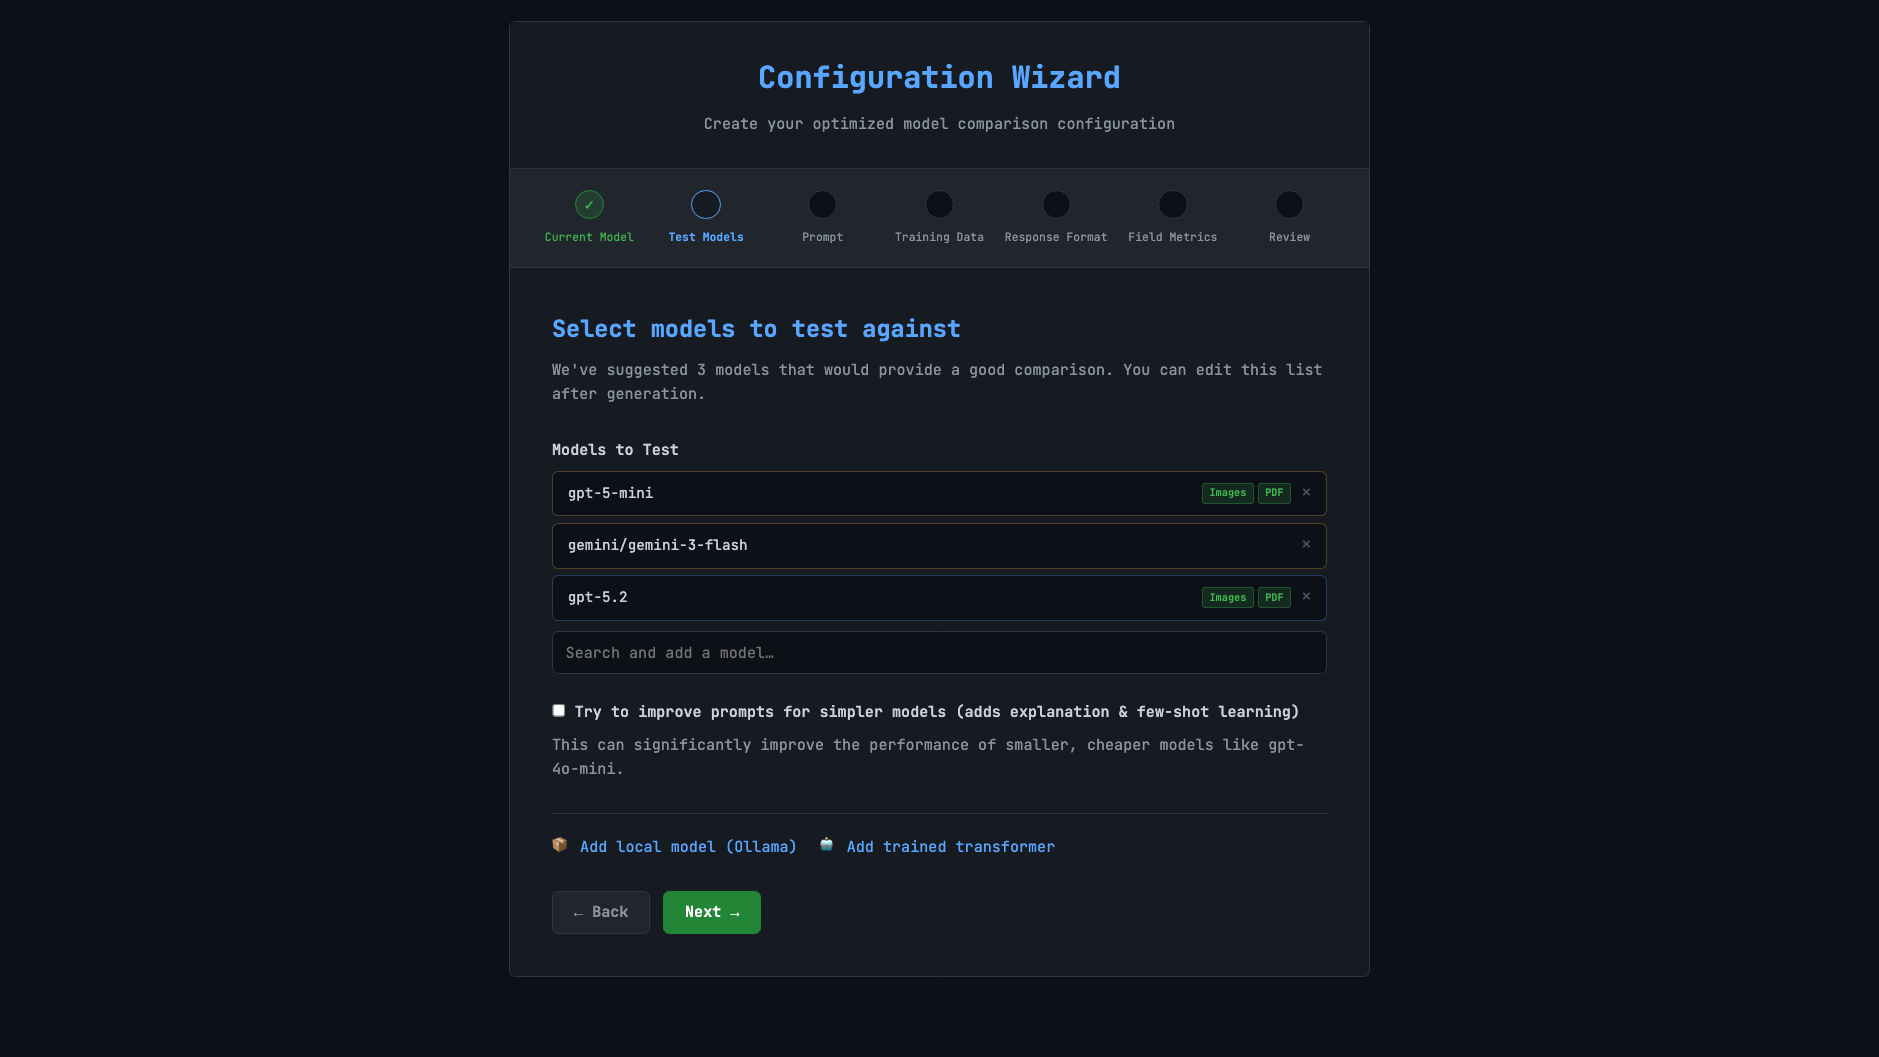
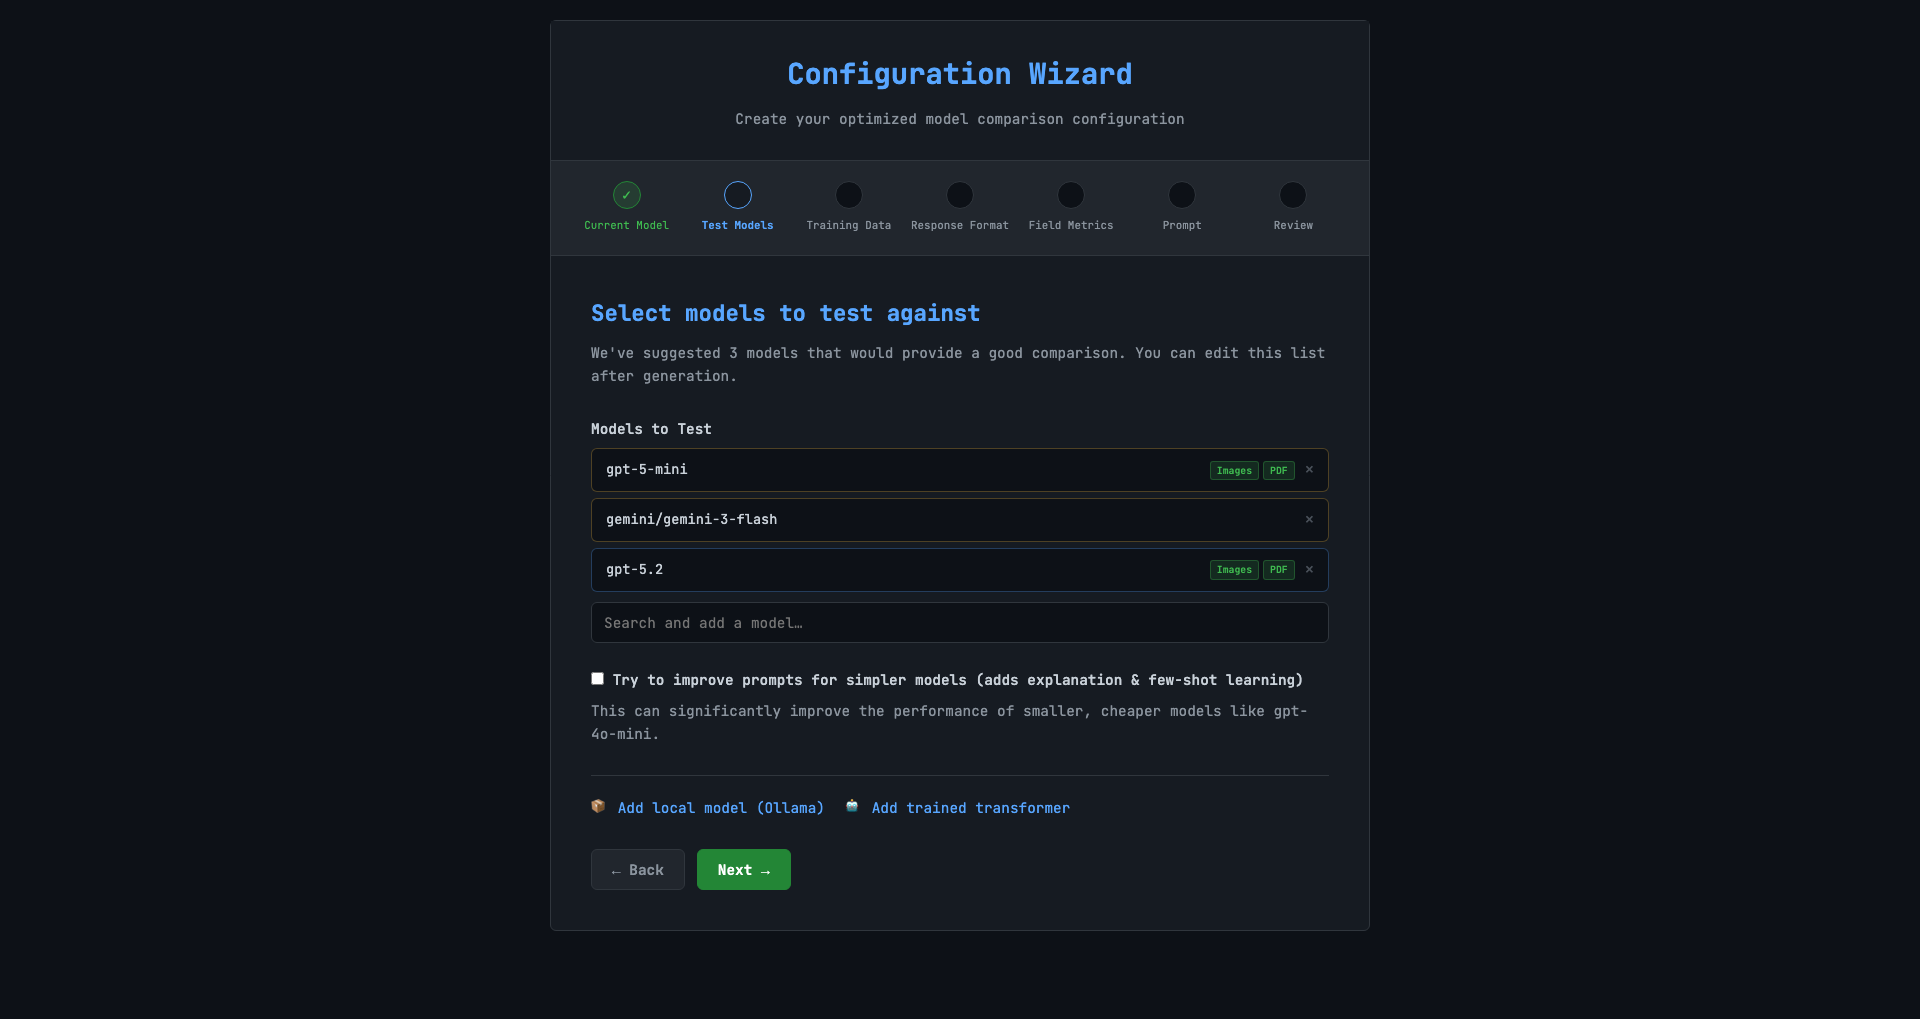
[docs] updated docs for config wizard to match release

diff --git a/docs/valtron/docs/getting-started/configuration-wizard.md b/docs/valtron/docs/getting-started/configuration-wizard.md
@@ -8,10 +8,9 @@ The configuration wizard is a browser-based UI that walks you through building a
 
 The wizard covers:
 - Selecting your current model and the models you want to test against
-- Writing your prompt template
-- Linking your labeled dataset
-- Reviewing the auto-generated response format
+- Linking your labeled dataset and reviewing the auto-generated response format
 - Optionally configuring few-shot learning and per-field metrics
+- Writing your prompt template (after data is analyzed so the wizard knows exactly which placeholders are required)
 
 At the end it generates a ready-to-use `custom_config.json` that you can download or copy to clipboard.
 
@@ -54,7 +53,7 @@ Enter the model you are currently using for this task. The field uses autocomple
 The wizard automatically suggests three comparison models based on your current model: a mix of simpler (cheaper) and more capable options.
 
 You can:
-- Remove any suggested model with the **×** button
+- Remove any suggested model with the **x** button
 - Search and add any LiteLLM-compatible model using the search field
 - Enable **"Try to improve prompts for simpler models"** to apply `explanation` and `few_shot` manipulations to smaller models automatically. This often meaningfully closes the accuracy gap between cheap and expensive models.
 
@@ -62,50 +61,37 @@ Use the **"Add local model (Ollama)"** or **"Add trained transformer"** help lin
 
 ---
 
-## Step 3: Prompt
+## Step 3: Training Data
 
-![Step 3: Prompt](/img/3_wizard_prompt.png)
-
-Enter the prompt template you use for this task. The prompt **must contain `{content}`** as a placeholder. Each document's content is inserted there during evaluation.
-
-**Example:**
-```
-List all institutions in the following affiliation string.
-
-{content}
-```
-
-If you enabled prompt improvement in Step 2, a notice will appear confirming that few-shot examples will be configured in the next step.
-
----
-
-## Step 4: Training Data
-
-![Step 4: Training Data](/img/4_wizard_training_data.png)
+![Step 3: Training Data](/img/3_wizard_training_data.png)
 
 Provide your labeled dataset. You can enter:
 - A **URL** pointing to a JSON file (the wizard downloads it automatically)
 - A **local file path** relative to your working directory (e.g. `./examples/my_data.json`)
 - A **file upload** by clicking the browse button. Files up to 1 GB are supported; for larger files, enter the local file path instead
 
-Your data must be a JSON array in this format:
+Your data must be a JSON array. See [Data Format](../data-format) for the full spec. A minimal example:
+
+```json
+[
+  { "id": "1", "content": "Absolutely love this product!", "label": "positive" },
+  { "id": "2", "content": "Terrible experience, would not recommend.", "label": "negative" }
+]
+```
+
+The `content` field can also be a JSON object for multi-placeholder prompts:
 
 ```json
 [
   {
     "id": "1",
-    "content": "John Smith, Department of Computer Science, Stanford University, Stanford, CA, USA; Google Research, Mountain View, CA, USA",
-    "label": {
-      "institutions": [
-        { "name": "Stanford University", "city": "Stanford",      "state": "CA", "country": "USA" },
-        { "name": "Google Research",     "city": "Mountain View", "state": "CA", "country": "USA" }
-      ]
-    }
+    "content": { "text": "The annual rainfall in the Amazon basin exceeds 2,000 mm.", "topic": "climate" },
+    "label": "YES"
   }
 ]
 ```
 
-Also enter a **use case description** (e.g. `"academic affiliation extraction"`, `"geographic entity extraction"`). This is used as the report header and passed to the AI recommendation engine.
+Also enter a **use case description** (e.g. `"sentiment classification"`, `"geographic entity extraction"`). This is used as the report header.
 
 ### Few-shot configuration (optional)
 
@@ -116,17 +102,17 @@ If you enabled prompt improvement in Step 2, a **Few-Shot Configuration** sectio
 | Number of examples to generate | 20 | Synthetic examples the generator produces |
 | Max seed examples | 10 | Real data rows used to seed generation |
 
-Click **Next**. The wizard downloads (if needed) and analyzes your data before moving to Step 5.
+Click **Next**. The wizard downloads (if needed) and analyzes your data before moving to Step 4.
 
 ---
 
-## Step 5: Response Format
+## Step 4: Response Format
 
-![Step 5: Response Format](/img/5_wizard_response_format.png)
+![Step 4: Response Format](/img/4_wizard_response_format.png)
 
-The wizard displays the Pydantic model inferred from your label values and shows a note that the schema will be saved to your config file. This is a best-effort inference from your data — if you need a more precise schema, pass your own Pydantic model directly as `response_format` when constructing `ModelEval`. See [Structured extraction mode](https://valtron.ai/docs/evaluation-results#structured-extraction-mode) for details.
+The wizard displays the Pydantic model inferred from your label values. This is a best-effort inference from your data — if you need a more precise schema, pass your own Pydantic model directly as `response_format` when constructing `ModelEval`. See [Structured extraction mode](https://valtron.ai/docs/evaluation-results#structured-extraction-mode) for details.
 
-The inferred schema is saved to the config file as `response_format_schema` in litellm format, which is what the system uses to constrain LLM output. For example, a plain-text label dataset with three classes produces:
+The inferred schema is saved to the config file as `response_format_schema` in litellm format. For example, a plain-text label dataset with three classes produces:
 
 ```json
 {
@@ -153,13 +139,13 @@ The inferred schema is saved to the config file as `response_format_schema` in l
 }
 ```
 
-For datasets with more than 50 distinct label values the `enum` constraint is omitted and the field is typed as a plain string. For JSON-structured labels, the schema is recursively inferred from the structure of your first label example. The list of detected enum values (for plain-text labels) is shown below the Pydantic class preview.
+For datasets with more than 50 distinct label values the `enum` constraint is omitted and the field is typed as a plain string. For JSON-structured labels, the schema is recursively inferred from the structure of your first label example.
 
 ---
 
-## Step 6: Field-Level Metrics
+## Step 5: Field-Level Metrics
 
-![Step 6: Field-Level Metrics](/img/6_wizard_field_metrics.png)
+![Step 5: Field-Level Metrics](/img/5_wizard_field_metrics.png)
 
 The wizard inspects your data labels to decide what grading options are available.
 
@@ -169,7 +155,7 @@ You can configure how the `label` field is graded (default: exact match). Select
 
 ### JSON-structured labels
 
-If labels are JSON objects (e.g. `{"institutions": [{"name": "Stanford University", "city": "Stanford", "state": "CA", "country": "USA"}]}`), you can choose between:
+If labels are JSON objects, you can choose between:
 
 - **Overall accuracy only** — exact-match on the full JSON string
 - **Per-field grading** — configure how each field is compared individually
@@ -187,9 +173,36 @@ For **list fields**, additional controls appear:
 | Control | Description |
 |---|---|
 | **Ordered** | Whether list item order must match |
-| **Match threshold** | Minimum similarity to count a pair as matched (0–1) |
+| **Match threshold** | Minimum similarity to count a pair as matched (0-1) |
 
 See [Field Metrics](../field-metrics) for a full reference.
+
+---
+
+## Step 6: Prompt
+
+![Step 6: Prompt](/img/6_wizard_prompt.png)
+
+Enter the prompt template for this task. The wizard already knows your data structure from Step 3, so it shows exactly which placeholders are required.
+
+**String content** — your data's `content` field is a plain string, so the prompt must contain `{content}`:
+
+```
+Classify the sentiment of the following review. Respond with POSITIVE or NEGATIVE only.
+
+{content}
+```
+
+**Dict content** — your data's `content` field is a JSON object, so the prompt must contain a placeholder for every key. For example, if each record has `{"text": "...", "topic": "..."}`:
+
+```
+Text: {text}
+Question: Is the topic of this text '{topic}'? Respond with YES or NO only.
+```
+
+The wizard blocks progress until all required placeholders are present in the prompt.
+
+Click **Generate Config** to build the final config and proceed to review.
 
 ---
 
@@ -202,8 +215,6 @@ The wizard displays the generated configuration as editable JSON. You can tweak 
 Use:
 - **Download Config** — saves `custom_config.json` to your browser's downloads folder
 - **Copy to Clipboard** — copies the JSON for pasting into your project
-
-The file is also saved automatically to `./configs/custom_config.json` relative to your working directory.
 
 ---
 